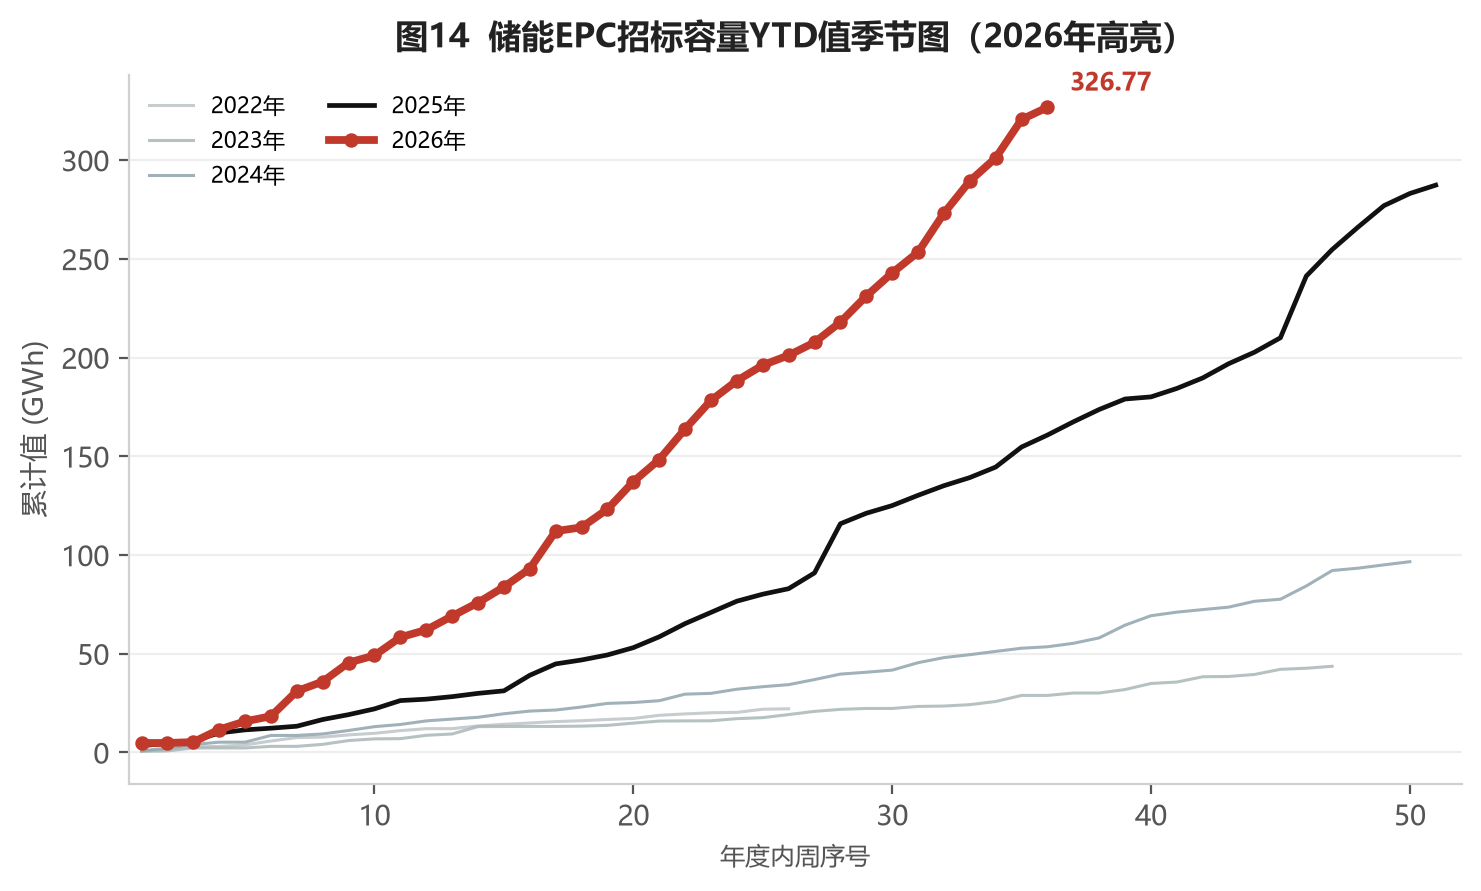
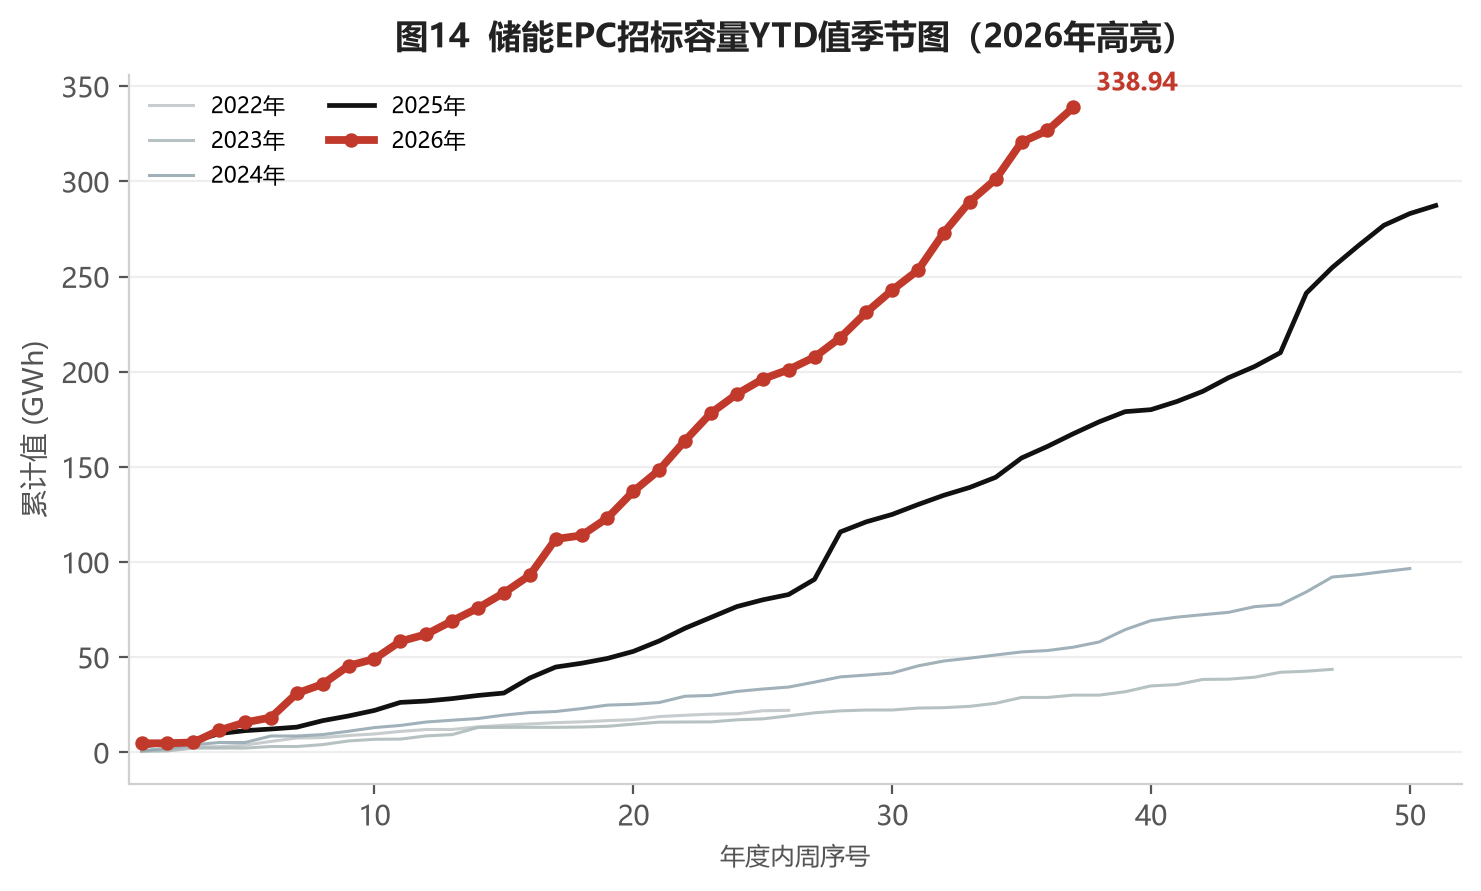
update weekly report 2026-09-20

diff --git a/docs/index.html b/docs/index.html
@@ -3,7 +3,7 @@
 <head>
 <meta charset="UTF-8" />
 <meta name="viewport" content="width=device-width, initial-scale=1.0" />
-<title>储能行业周报 · 储能招中标板块（2026-09-11）</title>
+<title>储能行业周报 · 储能招中标板块（2026-09-18）</title>
 <meta name="description" content="储能行业周度招中标数据报告：周度规模、累计规模、EPC/系统分项、中标价格走势。" />
 <style>
 :root {
@@ -52,13 +52,13 @@ footer{text-align:center;color:var(--muted);font-size:12px;padding:26px 0;
 <header class="hero">
   <div class="container">
     <h1>储能行业周报 · 储能招中标板块</h1>
-    <div class="meta">数据周期：2022-07-01 ~ 2026-09-11 · 本周：2026-09-05 至 2026-09-11（2026年第36周）· 共 210 周数据 · 生成于 2026-09-13 19:48:32</div>
+    <div class="meta">数据周期：2022-07-01 ~ 2026-09-18 · 本周：2026-09-12 至 2026-09-18（2026年第37周）· 共 211 周数据 · 生成于 2026-09-20 23:37:52</div>
   </div>
 </header>
 <div class="container">
     <section class="sec">
       <h2>一、中国|储能周度招中标</h2>
-      <div class="desc"><p class="d">本周：2026-09-05 至 2026-09-11</p><p class="d">招标项目 <b>23</b> 个，规模合计 <b>3.32</b>GW/<b>8.96</b>GWh，环比 <span class="chg down">-48.9%</span>/<span class="chg down">-55.1%</span>，同比 <span class="chg up">+44.0%</span>/<span class="chg up">+44.6%</span>。</p><p class="d">中标项目 <b>31</b> 个，规模合计 <b>6.61</b>GW/<b>21.79</b>GWh，环比 <span class="chg up">+9.0%</span>/<span class="chg up">+11.8%</span>，同比 <span class="chg up">+89.1%</span>/<span class="chg up">+133.8%</span>。</p></div>
+      <div class="desc"><p class="d">本周：2026-09-12 至 2026-09-18</p><p class="d">招标项目 <b>27</b> 个，规模合计 <b>4.13</b>GW/<b>12.85</b>GWh，环比 <span class="chg up">+24.2%</span>/<span class="chg up">+43.4%</span>，同比 <span class="chg up">+88.0%</span>/<span class="chg up">+69.6%</span>。</p><p class="d">中标项目 <b>41</b> 个，规模合计 <b>5.42</b>GW/<b>15.45</b>GWh，环比 <span class="chg down">-17.9%</span>/<span class="chg down">-29.1%</span>，同比 <span class="chg up">+88.9%</span>/<span class="chg up">+82.6%</span>。</p></div>
       <div class="charts">
       <figure class="fig"><img src="assets/images/fig_01.png" alt="图1：储能合计招标功率当周值季节图" loading="lazy" /></figure>
       <figure class="fig"><img src="assets/images/fig_02.png" alt="图2：储能合计中标功率当周值季节图" loading="lazy" /></figure>
@@ -69,7 +69,7 @@ footer{text-align:center;color:var(--muted);font-size:12px;padding:26px 0;
 
     <section class="sec">
       <h2>二、中国|储能周度招中标（累计）</h2>
-      <div class="desc"><p class="d">截至 2026-09-11</p><p class="d">招标累计规模 <b>144.70</b>GW/<b>487.36</b>GWh，环比 <span class="chg up">+2.4%</span>/<span class="chg up">+1.9%</span>，同比 <span class="chg up">+103.2%</span>/<span class="chg up">+115.6%</span>。</p><p class="d">中标累计规模 <b>156.95</b>GW/<b>608.90</b>GWh，环比 <span class="chg up">+4.4%</span>/<span class="chg up">+3.7%</span>，同比 <span class="chg up">+40.5%</span>/<span class="chg up">+49.6%</span>。</p></div>
+      <div class="desc"><p class="d">截至 2026-09-18</p><p class="d">招标累计规模 <b>148.83</b>GW/<b>500.21</b>GWh，环比 <span class="chg up">+2.9%</span>/<span class="chg up">+2.6%</span>，同比 <span class="chg up">+102.8%</span>/<span class="chg up">+114.1%</span>。</p><p class="d">中标累计规模 <b>162.37</b>GW/<b>624.36</b>GWh，环比 <span class="chg up">+3.5%</span>/<span class="chg up">+2.5%</span>，同比 <span class="chg up">+41.7%</span>/<span class="chg up">+50.2%</span>。</p></div>
       <div class="charts">
       <figure class="fig"><img src="assets/images/fig_05.png" alt="图5：储能合计招标功率YTD值季节图" loading="lazy" /></figure>
       <figure class="fig"><img src="assets/images/fig_06.png" alt="图6：储能合计中标功率YTD值季节图" loading="lazy" /></figure>
@@ -80,7 +80,7 @@ footer{text-align:center;color:var(--muted);font-size:12px;padding:26px 0;
 
     <section class="sec">
       <h2>三、储能EPC招中标规模（周度）</h2>
-      <div class="desc"><p class="d">本周：2026-09-05 至 2026-09-11</p><p class="d">储能EPC<b>招标</b>：<b>2.47</b>GW/<b>6.14</b>GWh，环比 <span class="chg down">-60.7%</span>/<span class="chg down">-68.5%</span>，同比 <span class="chg up">+8.9%</span>/<span class="chg up">+1.1%</span>；本年累计<b>招标</b> <b>118.64</b>GW/<b>326.77</b>GWh，同比 <span class="chg up">+112.7%</span>/<span class="chg up">+103.2%</span>。</p><p class="d">储能EPC<b>中标</b>：<b>4.81</b>GW/<b>16.99</b>GWh，环比 <span class="chg down">-6.7%</span>/<span class="chg up">+4.7%</span>，同比 <span class="chg up">+61.7%</span>/<span class="chg up">+105.3%</span>；本年累计<b>中标</b> <b>128.57</b>GW/<b>378.05</b>GWh，同比 <span class="chg up">+82.4%</span>/<span class="chg up">+89.9%</span>。</p></div>
+      <div class="desc"><p class="d">本周：2026-09-12 至 2026-09-18</p><p class="d">储能EPC<b>招标</b>：<b>3.79</b>GW/<b>12.17</b>GWh，环比 <span class="chg up">+53.7%</span>/<span class="chg up">+98.3%</span>，同比 <span class="chg up">+94.8%</span>/<span class="chg up">+82.2%</span>；本年累计<b>招标</b> <b>122.43</b>GW/<b>338.94</b>GWh，同比 <span class="chg up">+112.0%</span>/<span class="chg up">+102.4%</span>。</p><p class="d">储能EPC<b>中标</b>：<b>4.67</b>GW/<b>13.11</b>GWh，环比 <span class="chg down">-2.9%</span>/<span class="chg down">-22.9%</span>，同比 <span class="chg up">+216.5%</span>/<span class="chg up">+328.3%</span>；本年累计<b>中标</b> <b>133.23</b>GW/<b>391.15</b>GWh，同比 <span class="chg up">+85.2%</span>/<span class="chg up">+93.5%</span>。</p></div>
       <div class="charts cols4">
       <figure class="fig"><img src="assets/images/fig_09.png" alt="图9：储能EPC招标功率当周值季节图" loading="lazy" /></figure>
       <figure class="fig"><img src="assets/images/fig_10.png" alt="图10：储能EPC招标功率YTD值季节图" loading="lazy" /></figure>
@@ -95,7 +95,7 @@ footer{text-align:center;color:var(--muted);font-size:12px;padding:26px 0;
 
     <section class="sec">
       <h2>四、储能系统招中标规模（周度）</h2>
-      <div class="desc"><p class="d">本周：2026-09-05 至 2026-09-11</p><p class="d">储能系统<b>招标</b>：<b>0.85</b>GW/<b>2.82</b>GWh，环比 <span class="chg up">+274.2%</span>/<span class="chg up">+516.7%</span>，同比 <span class="chg up">+1985.4%</span>/<span class="chg up">+2211.5%</span>；本年累计<b>招标</b> <b>22.86</b>GW/<b>127.57</b>GWh，同比 <span class="chg up">+45.3%</span>/<span class="chg up">+95.5%</span>。</p><p class="d">储能系统<b>中标</b>：<b>1.80</b>GW/<b>4.80</b>GWh，环比 <span class="chg up">+97.8%</span>/<span class="chg up">+47.2%</span>，同比 <span class="chg up">+245.3%</span>/<span class="chg up">+359.3%</span>；本年累计<b>中标</b> <b>25.64</b>GW/<b>185.72</b>GWh，同比 <span class="chg down">-38.0%</span>/<span class="chg down">-18.2%</span>。</p></div>
+      <div class="desc"><p class="d">本周：2026-09-12 至 2026-09-18</p><p class="d">储能系统<b>招标</b>：<b>0.33</b>GW/<b>0.67</b>GWh，环比 <span class="chg down">-61.0%</span>/<span class="chg down">-76.2%</span>，同比 <span class="chg up">+34.7%</span>/<span class="chg down">-24.9%</span>；本年累计<b>招标</b> <b>23.19</b>GW/<b>128.24</b>GWh，同比 <span class="chg up">+45.2%</span>/<span class="chg up">+93.8%</span>。</p><p class="d">储能系统<b>中标</b>：<b>0.76</b>GW/<b>2.35</b>GWh，环比 <span class="chg down">-58.0%</span>/<span class="chg down">-51.1%</span>，同比 <span class="chg down">-45.9%</span>/<span class="chg down">-56.5%</span>；本年累计<b>中标</b> <b>26.40</b>GW/<b>188.07</b>GWh，同比 <span class="chg down">-38.2%</span>/<span class="chg down">-19.1%</span>。</p></div>
       <div class="charts cols4">
       <figure class="fig"><img src="assets/images/fig_17.png" alt="图17：储能系统招标功率当周值季节图" loading="lazy" /></figure>
       <figure class="fig"><img src="assets/images/fig_18.png" alt="图18：储能系统招标功率YTD值季节图" loading="lazy" /></figure>
@@ -110,7 +110,7 @@ footer{text-align:center;color:var(--muted);font-size:12px;padding:26px 0;
 
     <section class="sec">
       <h2>五、储能价格（周度）</h2>
-      <div class="desc"><p class="d">本周：2026-09-05 至 2026-09-11</p><p class="d">储能EPC中标报价区间：【<b>0.5760</b>-<b>1.6056</b>】元/Wh，储能EPC中标均价 <b>0.8632</b> 元/Wh（环比 <span class="chg down">-15.9%</span>，同比 <span class="chg down">-16.0%</span>）。</p><p class="d">储能系统中标报价区间：【<b>0.5180</b>-<b>1.0600</b>】元/Wh，储能系统中标均价 <b>0.6792</b> 元/Wh（环比 <span class="chg up">+21.7%</span>，同比 <span class="chg down">-27.0%</span>）。</p></div>
+      <div class="desc"><p class="d">本周：2026-09-12 至 2026-09-18</p><p class="d">储能EPC中标报价区间：【<b>0.6770</b>-<b>1.8512</b>】元/Wh，储能EPC中标均价 <b>1.0434</b> 元/Wh（环比 <span class="chg up">+20.9%</span>，同比 <span class="chg down">-5.2%</span>）。</p><p class="d">储能系统中标报价区间：【<b>0.5111</b>-<b>0.6960</b>】元/Wh，储能系统中标均价 <b>0.5902</b> 元/Wh（环比 <span class="chg down">-13.1%</span>，同比 <span class="chg up">+13.1%</span>）。</p></div>
       <div class="charts">
       <figure class="fig"><img src="assets/images/fig_25.png" alt="图25：储能系统中标均价季节图" loading="lazy" /></figure>
       <figure class="fig"><img src="assets/images/fig_26.png" alt="图26：储能EPC中标均价季节图" loading="lazy" /></figure>
